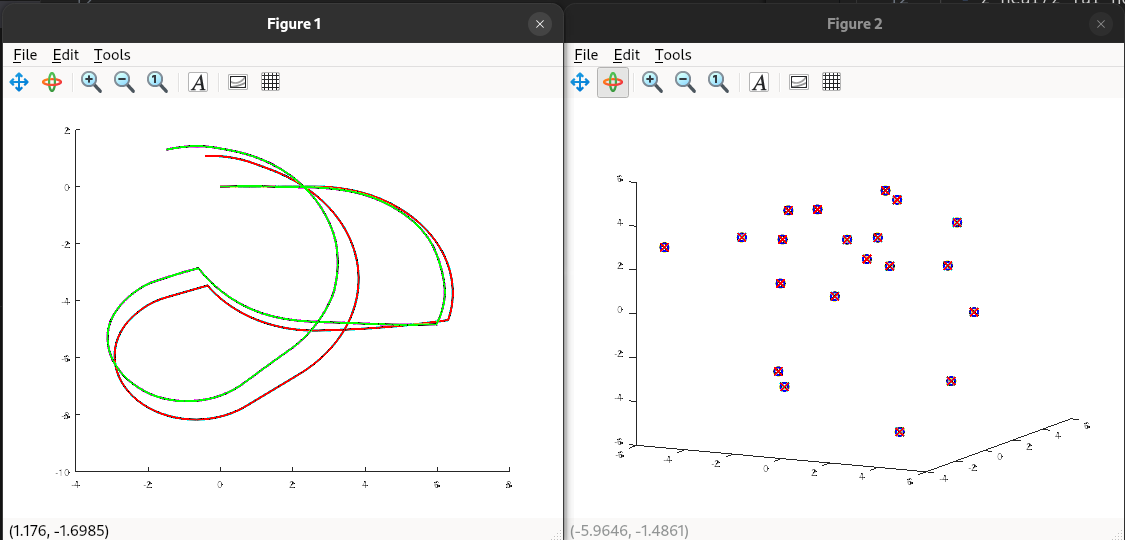
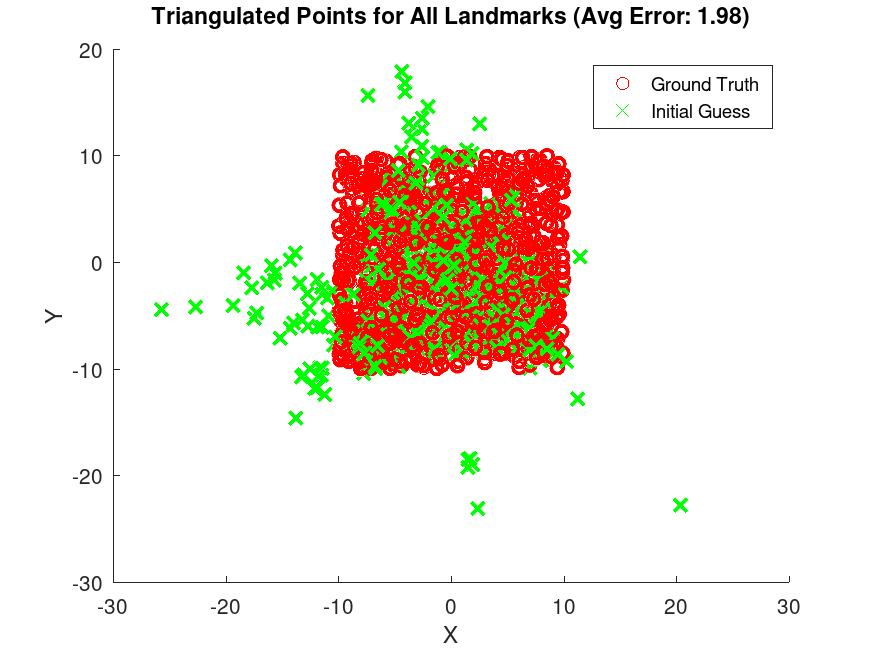
traingulation + b.adj = high error

diff --git a/src/main.m b/src/main.m
@@ -14,54 +14,9 @@ more off;
 disp('loading...');
 Traj=load("../data/trajectory.dat");
 L=load("../data/world.dat");
-
-h1 = figure(1);
-hold on;
-% Ground truth trajectory
-plot(Traj(:,5),Traj(:,6), 'r-', 'linewidth', 2);
-hold on;
-% Odometry trajectory
-plot(Traj(:,2),Traj(:,3), 'g-', 'linewidth', 2);
-
-
-%% ----------- test triangulation ------------------------
-[_, gt_pose1, _, uv_points1] = read_meas(0);
-[_, gt_pose2, _, uv_points2] = read_meas(50);
-X1 = v2t(gt_pose1);
-X2 = v2t(gt_pose2);
-
-% Test triangulation with random points
-% - we create random points in 3D and project them
-% - then we triangulate and plot them to see the results
-
-num_points = 20;
-
-points = [];
-triangulated_points = [];
-rand_points = rand(num_points, 3) * 10 - [5,5,5];
-for i=1:num_points,
-    p = rand_points(i,:)';
-    homogeneous_p = [p; 1];
-
-    u1 = project(homogeneous_p, X1);
-    u2 = project(homogeneous_p, X2);
-    p_triangulated = triangulate(u1, u2, X1, X2);
-
-    points = [points; p'];
-    triangulated_points = [triangulated_points; p_triangulated'];
-end
-
-h2 = figure(2);
-hold on;
-plot3(points(:,1), points(:,2), points(:,3), 'bo', 'linewidth', 2);
-plot3(triangulated_points(:,1), triangulated_points(:,2), triangulated_points(:,3), 'rx', 'linewidth', 2);
-
-% waitfor(h2);
-
-%% ------------ test bundle adj -------------------------
-
 XR_true_vec = Traj(:,5:7)';
-XL_true = read_world()';
+XL_true = L(:, 2:4)';
+
 global pose_dim; global landmark_dim; global num_poses; global num_landmarks;
 pose_dim = 3;
 landmark_dim = 3;
@@ -69,32 +24,124 @@ num_poses = size(XR_true_vec, 2);
 num_landmarks = size(XL_true, 2);
 fprintf('num_poses: %d, num_landmarks: %d\n', num_poses, num_landmarks);
 
+% ------------ Triangulation-based initialization -------------------------
+
 % apply v2t to all odometry poses
 XR_guess = zeros(4, 4, num_poses);
 for i=1:num_poses,
     XR_guess(:,:,i) = v2t(Traj(i,2:4));
 end
 
-XL_guess=XL_true;
+observations = get_observations();
+XL_guess = zeros(3, num_landmarks);
+avg_count = zeros(1, num_landmarks); % to maintain a moving avg
 
-% for (pose_num=2:num_poses)
-%     xr=rand(3,1)-0.5;
-%     dXr=v2t(pert_scale*xr);
-%     XR_guess(:,:,pose_num)=dXr*XR_guess(:,:,pose_num);
-% endfor;
+points_to_plot = [];
+choosen_land = -1; % to test only on one landmark
 
-%apply a perturbation to each landmark
-% pert_deviation=1;
-% pert_scale=eye(3)*pert_deviation;
-% dXl=(rand(landmark_dim, num_landmarks)-0.5)*pert_deviation;
-% XL_guess+=dXl;
+for i=1:size(observations, 1),
+    obs1 = observations(i);
+    pose_index1 = obs1.pose_index;
+    landmark_indexes1 = obs1.landmark_indexes;
+
+    for j=i+1:size(observations, 1),
+        obs2 = observations(j);
+        pose_index2 = obs2.pose_index;
+        landmark_indexes2 = obs2.landmark_indexes;
+
+        if choosen_land < 0,
+            common_landmarks = intersect(landmark_indexes1, landmark_indexes2);
+            if isempty(common_landmarks),
+                continue;
+            end
+
+            X1 = XR_guess(:, :, pose_index1);
+            X2 = XR_guess(:, :, pose_index2);
+
+            for k=1:length(common_landmarks),
+                landmark_index = common_landmarks(k);
+                uv1 = obs1.uvs(landmark_indexes1 == landmark_index, :)';
+                uv2 = obs2.uvs(landmark_indexes2 == landmark_index, :)';
+
+                p_triangulated = triangulate(uv1, uv2, X1, X2);
+
+                % exclude points that are too far away from the XY origin (outliers) or z < 0 (under the ground)
+                if norm(p_triangulated(1:2)) > 50,
+                    continue;
+                end
+
+                XL_guess(:, landmark_index) = (XL_guess(:, landmark_index) * avg_count(landmark_index) + p_triangulated) / (avg_count(landmark_index) + 1);
+                avg_count(landmark_index) += 1;
+            end
+
+        else
+
+            % --------------------------------------------
+            % for testing, let's do it just for one landmark
+
+            X1 = XR_guess(:, :, pose_index1);
+            X2 = XR_guess(:, :, pose_index2);
+            uv1 = obs1.uvs(landmark_indexes1 == choosen_land, :)';
+            uv2 = obs2.uvs(landmark_indexes2 == choosen_land, :)';
+
+            if isempty(uv1) || isempty(uv2),
+                continue;
+            end
+
+            p_triangulated = triangulate(uv1, uv2, X1, X2);
+            % exclude points that are too far away from the XY origin (outliers) or z < 0 (under the ground)
+            if norm(p_triangulated(1:2)) > 50,
+                continue;
+            end
+            points_to_plot = [points_to_plot; p_triangulated'];
+            XL_guess(:, choosen_land) = (XL_guess(:, choosen_land) * avg_count(choosen_land) + p_triangulated) / (avg_count(choosen_land) + 1);
+            avg_count(choosen_land) += 1;
+        end
+    end
+end
+
+% plot all the triangulated points for landmark 1 and ground truth
+h2 = figure(2);
+hold on;
+
+if choosen_land < 0,
+    % compute avg error for all landmarks
+    total_error = 0;
+    count = 0;
+    for i=1:num_landmarks,
+        if avg_count(i) > 0,
+            err = norm(XL_guess(:, i) - XL_true(:, i));
+            total_error = total_error + err;
+            count = count + 1;
+        end
+    end
+    avg_error = total_error / count;
+    title(sprintf('Triangulated Points for All Landmarks (Avg Error: %.2f)', avg_error));
+
+    plot3(XL_true(1,:), XL_true(2,:), XL_true(3,:), 'ro', 'linewidth', 2, 'DisplayName', 'Ground Truth');
+    plot3(XL_guess(1,:), XL_guess(2,:), XL_guess(3,:), 'gx', 'linewidth', 2, 'DisplayName', 'Initial Guess');
+else
+    err = norm(XL_guess(:, choosen_land) - XL_true(:, choosen_land));
+    title(sprintf('Triangulated Points for Landmark %d (Error: %.2f)', choosen_land, err));
+    plot3(points_to_plot(:,1), points_to_plot(:,2), points_to_plot(:,3), 'bo', 'linewidth', 2, 'DisplayName', 'Triangulated Points');
+    plot3(XL_true(1,choosen_land), XL_true(2,choosen_land), XL_true(3,choosen_land), 'ro', 'linewidth', 2, 'DisplayName', 'Ground Truth');
+    plot3(XL_guess(1,choosen_land), XL_guess(2,choosen_land), XL_guess(3,choosen_land), 'gx', 'linewidth', 2, 'DisplayName', 'Initial Guess');
+end
+xlabel('X');
+ylabel('Y');
+zlabel('Z');
+legend();
+saveas(h2, '../imgs/triangulation.png');
+
+
+%% ------------ bundle adj -------------------------
 
 state.Xr = XR_guess;
 state.Xl = XL_guess;
 
 damping = 0;
 kernel_threshold_sq = 1e3;
-num_iterations = 25;
+num_iterations = 10;
 
 observations = get_observations();
 
@@ -104,18 +151,24 @@ disp('done');
 
 h3 = figure(3);
 subplot(1,2,1);
+hold on;
+title('Bundle Adjustment Chi Statistics');
 plot(chi_stats.chi_tot, 'o-');
 xlabel('Iteration');
 ylabel('Total Chi');
 subplot(1,2,2);
+hold on;
+title('Bundle Adjustment Inliers');
 plot(chi_stats.num_inliers, 'o-');
 xlabel('Iteration');
-ylabel('Number of Inliers');    
+ylabel('Number of Inliers');
+saveas(h3, '../imgs/chi_stats.png');
 
 % plot Xr and then Xl
 h4 = figure(4);
 subplot(1,2,1);
 hold on;
+title('Robot Trajectory');
 plot(Traj(:,5),Traj(:,6), 'r-', 'linewidth', 2, 'DisplayName', 'Ground Truth Trajectory');
 plot(Traj(:,2),Traj(:,3), 'b-', 'linewidth', 2, 'DisplayName', 'Initial Guess Trajectory');
 x = reshape(state.Xr(1,4,:), [], 1);
@@ -123,12 +176,70 @@ y = reshape(state.Xr(2,4,:), [], 1);
 plot(x, y, 'g-', 'linewidth', 2, 'DisplayName', 'Estimated Trajectory');
 xlabel('X');
 ylabel('Y');
+legend();
 subplot(1,2,2);
 hold on;
+title('Landmark Positions');
 plot3(XL_true(1,:), XL_true(2,:), XL_true(3,:), 'ro', 'linewidth', 2, 'DisplayName', 'Ground Truth');
 plot3(state.Xl(1,:), state.Xl(2,:), state.Xl(3,:), 'gx', 'linewidth', 2, 'DisplayName', 'Estimated');
 xlabel('X');
 ylabel('Y');
 zlabel('Z');
+legend();
+saveas(h4, '../imgs/ba_results.png');
+
+
+
+% ------------------ Evaluation ------------------
+
+ev_err.trasl = [];
+ev_err.rot = [];
+
+for i=1:num_poses-1,
+    T_i = state.Xr(:, :, i);
+    T_j = state.Xr(:, :, i+1);
+    GT_i = v2t(Traj(i, 2:4));
+    GT_j = v2t(Traj(i+1, 2:4));
+
+    rel_T = inv(T_i) * T_j;
+    rel_GT = inv(GT_i) * GT_j;
+    error_T = inv(rel_T) * rel_GT;
+
+    rot_error = atan2(error_T(2, 1), error_T(1, 1));
+    transl_error = norm(error_T(1:3, 4));
+
+    ev_err.rot = [ev_err.rot; rot_error];
+    ev_err.trasl = [ev_err.trasl; transl_error];
+end
+
+% compute the whole RMSE (sum or mean?)
+vn = vecnorm(state.Xl - XL_true).^2;
+map_error_avg = sqrt(mean(vn));
+map_error_sum = sqrt(sum(vn));
+fprintf('Map avg RMSE: %.2f m\n', map_error_avg);
+fprintf('Map sum RMSE: %.2f m\n', map_error_sum);
+
+h5 = figure(5);
+subplot(2,2,1);
+hold on;
+title('Pose Translation Errors');
+plot(ev_err.trasl, 'o-');
+xlabel('Pose Index');
+ylabel('Translation Error (m)');
+yline(mean(ev_err.trasl), 'r--', sprintf('Avg: %.2f m', mean(ev_err.trasl)));
+
+subplot(2,2,2);
+hold on;
+title('Pose Rotation Errors');
+plot(ev_err.rot, 'o-');
+xlabel('Pose Index');
+ylabel('Rotation Error (rad)');
+yline(mean(ev_err.rot), 'r--', sprintf('Avg: %.2f rad', mean(ev_err.rot)));
+
+subplot(2,2,3:4);
+axis off;
+text(0.1, 0.5, sprintf('Map avg RMSE: %.2f m\nMap sum RMSE: %.2f m\n', map_error_avg, map_error_sum), 'FontSize', 12);
+saveas(h5, '../imgs/pose_errors.png');
+
 
 waitforbuttonpress;
